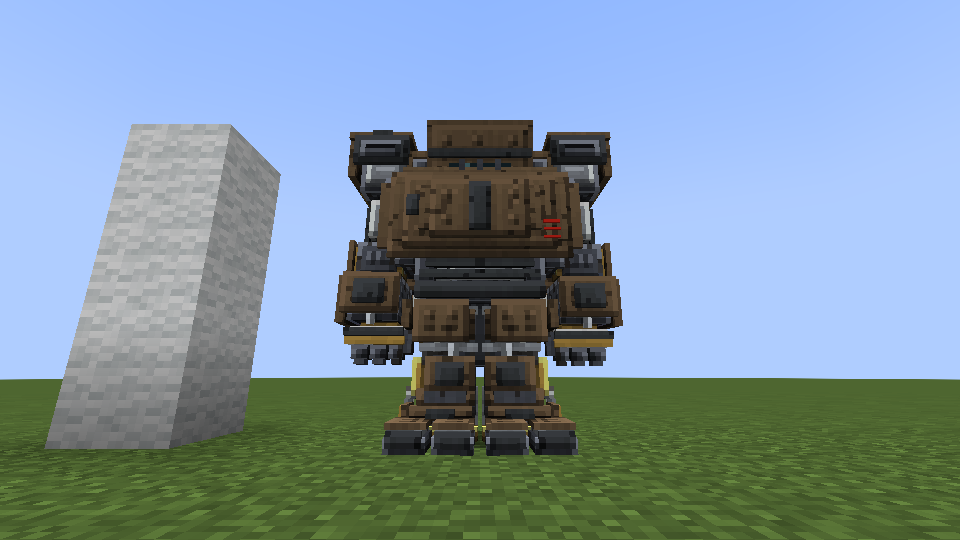
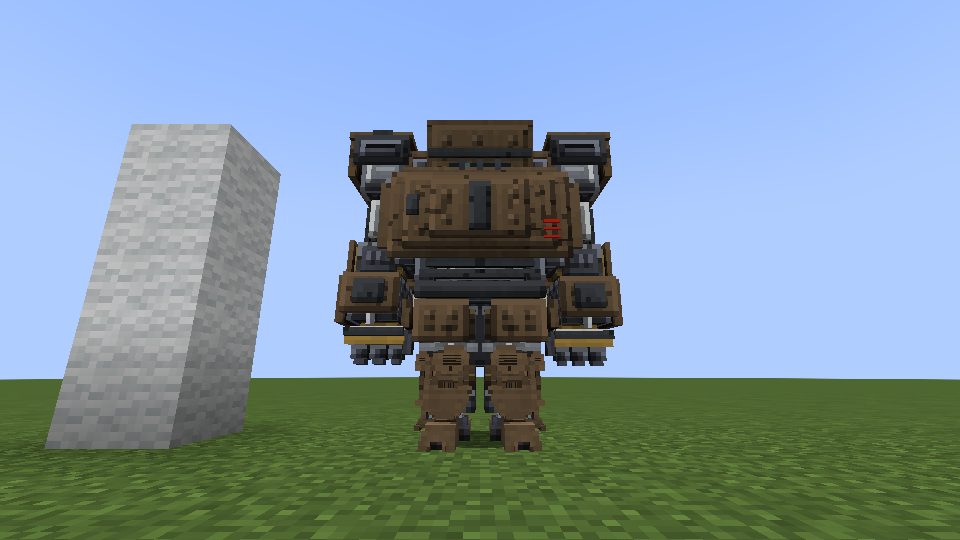
test: scatti di riferimento rifatti dopo i piedi del Task 14
Claude-Session: https://claude.ai/code/session_018Fcbc2CFSwuiCoDaNxQwgt

Changed region(s): [[0.375, 0.6222, 0.625, 0.8593]]

diff --git a/docs/test-in-gioco/m3a-vedere-il-telaio.md b/docs/test-in-gioco/m3a-vedere-il-telaio.md
@@ -28,7 +28,7 @@ Prima di indossare la tuta svuota gli slot dell'armatura: il comando li occupa c
 
 ## Già verificato nella sessione cloud (13 novembre 2026)
 
-Con `tools/client/m3a_shots.sh`, sul client di **sviluppo** di ogni variante (non sui jar di produzione), dopo il ridisegno di piedi e schiena: otto scatti per variante, ognuno da dietro, davanti e di tre quarti. Tutti gli scatti riusciti su tutte e quattro le varianti, e ognuno è stato guardato:
+Con `tools/client/m3a_shots.sh`, sul client di **sviluppo** di ogni variante (non sui jar di produzione), dopo il ridisegno della schiena e della parte bassa delle gambe (stinchi, montante laterale, piedi): otto scatti per variante, ognuno da dietro, davanti e di tre quarti. Tutti gli scatti riusciti su tutte e quattro le varianti, e ognuno è stato guardato:
 
 | Controllo | 1.21.1 NeoForge | 1.21.1 Fabric | 1.20.1 Fabric | 1.20.1 Forge |
 |---|---|---|---|---|
@@ -74,7 +74,7 @@ Accanto a ogni voce lo scatto di riferimento. Gli scatti del cloud sono del clie
 - [ ] **Quattro stati.** `/exoframe debug wear rottame 0`, poi `1`, `2`, `3`: dal più pulito al più scuro e rovinato, nell'ordine; nello stato 3 la superficie è quasi carbone e metà delle spie è spenta. Riferimento: `m3a-screenshot/1.21.1-neoforge-stati.png`, `m3a-screenshot/1.20.1-forge-stati.png` (da sinistra stato 0, 1, 2, 3).
 - [ ] **Colori di prova.** `/exoframe debug wear rottame 0 3A6EA5 D9D9D9`. Le piastre principali diventano blu, le secondarie grigio chiaro; restano dei loro colori il telaio sotto (acciaio, ottone, cavi), vetri, sbarre, feritoie e fessure rosse. Riferimento: `m3a-screenshot/1.21.1-neoforge-colori.png`, `m3a-screenshot/1.20.1-forge-colori.png`.
 - [ ] **Oggetto in mano.** `/exoframe debug wear rottame`, poi un piccone di ferro nella mano principale e uno scudo nell'altra (`/item replace entity @s weapon.offhand with minecraft:shield`). Il piccone sta nella mano destra della tuta, grande come lei; lo scudo nella sinistra; nessuno dei due sotto i pugni della tuta o dentro il braccio. Nello scatto di riferimento, da davanti, il piccone si vede di taglio, come una barra scura che sale dal pugno destro della tuta (a sinistra per chi guarda); lo scudo copre l'avambraccio sinistro. Riferimento: `m3a-screenshot/1.21.1-neoforge-mani.png`, `m3a-screenshot/1.20.1-forge-mani.png`.
-- [ ] **Sdraiati.** `/exoframe debug wear nudo`, poi metti un blocco sopra la testa a un blocco d'altezza dai piedi (per esempio `/setblock ~ ~1 ~ minecraft:glass`): il gioco ti mette a strisciare. Tuta e pilota sono distesi insieme, a terra, la tuta non resta in piedi né sospesa. Guarda da dietro e di tre quarti: davanti, sdraiati, la telecamera finisce contro la testa. Lo scatto di riferimento è di tre quarti da dietro: i piedi della tuta, con le suole, sono la parte più vicina, a destra; la testa è dalla parte opposta, sotto e oltre il blocco di vetro; davanti a sinistra si vede una mano della tuta. Il pilota da quell'angolo non si vede. Riferimento: `m3a-screenshot/1.21.1-neoforge-sdraiato.png`, `m3a-screenshot/1.20.1-forge-sdraiato.png`.
+- [ ] **Sdraiati.** `/exoframe debug wear nudo`, poi metti un blocco sopra la testa a un blocco d'altezza dai piedi (per esempio `/setblock ~ ~1 ~ minecraft:glass`): il gioco ti mette a strisciare. Tuta e pilota sono distesi insieme, a terra, la tuta non resta in piedi né sospesa. Guarda da dietro e di tre quarti: davanti, sdraiati, la telecamera finisce contro la testa. Lo scatto di riferimento è di tre quarti da dietro: stinchi e piedi della tuta sono la parte più vicina, a destra; la testa è dalla parte opposta, sotto e oltre il blocco di vetro; davanti a sinistra si vede una mano della tuta. Il pilota da quell'angolo non si vede. Riferimento: `m3a-screenshot/1.21.1-neoforge-sdraiato.png`, `m3a-screenshot/1.20.1-forge-sdraiato.png`.
 - [ ] **Via.** `/exoframe debug wear via`: la tuta sparisce, torna il giocatore normale, intero e a terra.
 - [ ] Nel log, dopo tutte queste prove, nessuna riga `ERROR` o `WARN` che nomina `redstone_exoframes`, `exoframe`, `geckolib` o un mixin.
 
